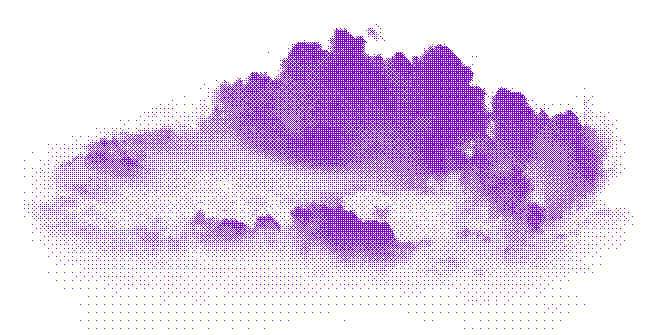
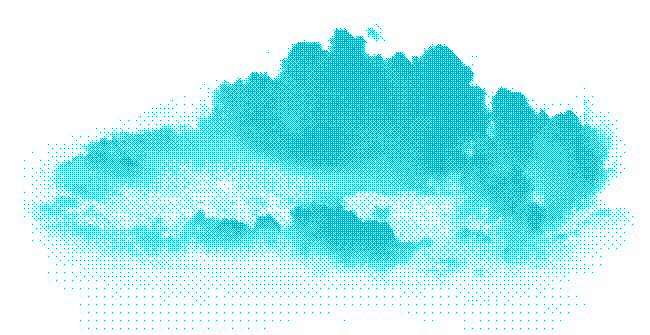
started againnn

Changed region(s): [[0.0615, 0.0896, 0.9538, 0.8358]]

diff --git a/mainpage.html b/mainpage.html
@@ -1,0 +1,20 @@
+<!DOCTYPE html>
+<html>
+  <head>
+    <meta charset="utf-8">
+    <title>клуб вата</title>
+    <link rel="stylesheet" href="stylesheets/style.css">
+  </head>
+  <body>
+    <section class="about">
+      <h1>КЛУБ <br>МЕТЕО <br>ЗАВИСИМЫХ</h1>
+      <img src="images/cloud.png" alt="" class="cloud">
+      <figure></figure>
+      <div class="texts">
+        <p>Центр помощи метеозависимым – это место, куда приходят люди, которые не просто не любят плохую погоду. Они ее ненавидят.  Им становится плохо от одного прогноза на повышенное или пониженное атмосферное давление, от палящего солнца, дождя или сильного ветра.</p>
+        <p>Именно для таких людей был сделан клуб под названием «Вата». Мы называемся вата потому, что облака похожи на вату, а еще ,когда человеку плохо, он чувствует себя таким же бесформенным, как вата.</p>
+        <p><a href="">Центр лечения</a> находится далеко за городом в том месте, где погода никогда не менятеся, а условия просто идеальные.</p>
+      </div>
+    </section>
+  </body>
+</html>

diff --git a/stylesheets/about.css b/stylesheets/about.css
@@ -1,0 +1,65 @@
+h1 {
+  position: absolute;
+  font-size: 4.6rem;
+  font-weight: 700;
+  color: #00BCD4;
+
+  margin-left: 3.5vw;
+  margin-top: 3.6vh;
+}
+
+img {
+  position: absolute;
+  z-index: 1;
+  margin-left: 35vw;
+
+  animation-name: cloud;
+  animation-duration: 20s;
+  animation-iteration-count: infinite;
+}
+
+@keyframes cloud {
+    10% {margin-left: 40vw; margin-top: 5vh;}
+    30% {margin-left: 30vw; margin-top: 10vh;}
+    50% {margin-left: 25vw; margin-top: 3vh;}
+    70% {margin-left: 23vw; margin-top: 7vh;}
+    90% {margin-left: 30vw; margin-top: 5vh;}
+    100% {margin-left: 35vw; margin-top: 0vh;}
+}
+
+figure {
+  position: absolute;
+  width: 43vw;
+  height: 47.8vh;
+  margin-top: 27.8vh;
+
+  border: 10px solid black;
+
+  background-image: url(../images/overview.jpg);
+  background-size: cover;
+}
+
+.texts {
+  position: absolute;
+  max-width: 41vw;
+  margin-left: 50vw;
+  margin-top: 27.8vh;
+}
+
+p {
+  font-size: 2.6rem;
+  color: black;
+  font-weight: 700;
+}
+
+p:not(:first-of-type) {
+  margin-top: 6vh;
+}
+
+.texts a {
+  color: #00BCD4;
+}
+
+.texts a:hover {
+  color: black;
+}

diff --git a/stylesheets/style.css b/stylesheets/style.css
@@ -1,8 +1,13 @@
 @import 'reset.css';
-@import url('https://fonts.googleapis.com/css?family=Open+Sans:600,800&subset=cyrillic');
+@import url('https://fonts.googleapis.com/css?family=Open+Sans:400,700&subset=cyrillic');
 @import 'font-awesome.css';
 
-@import 'main.css';
+/*@import 'main.css';
 @import 'top.css';
 @import 'plan.css';
-@import 'lower.css';
+@import 'lower.css';*/
+@import 'all.css';
+@import 'about.css';
+@import 'stages.css';
+@import 'top_plans.css';
+@import 'low_plans.css';

diff --git a/stylesheets/all.css b/stylesheets/all.css
@@ -1,0 +1,25 @@
+* {
+  box-sizing: border-box;
+}
+
+:root {
+  font-size: 62.5%;
+}
+
+body {
+  width: 100vw;
+  font-family: 'Open Sans', sans-serif;
+
+  /*background-image: url(../images/main.png);*/
+  background-size: cover;
+}
+
+section {
+  width: 100vw;
+  height: 100vh;
+}
+
+a {
+  text-decoration: none;
+  color: black;
+}
